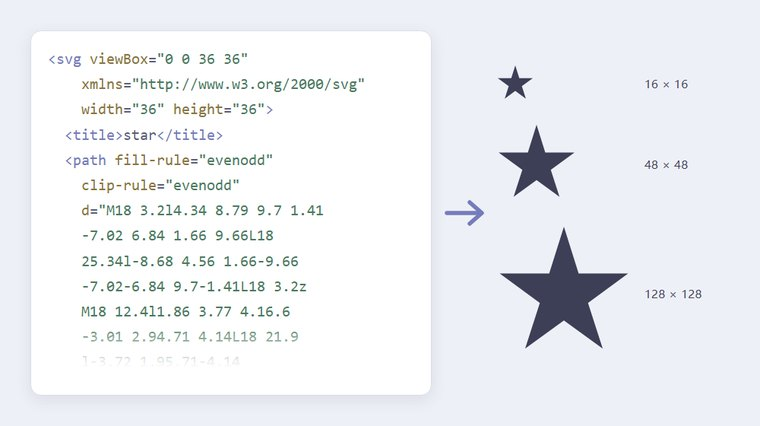
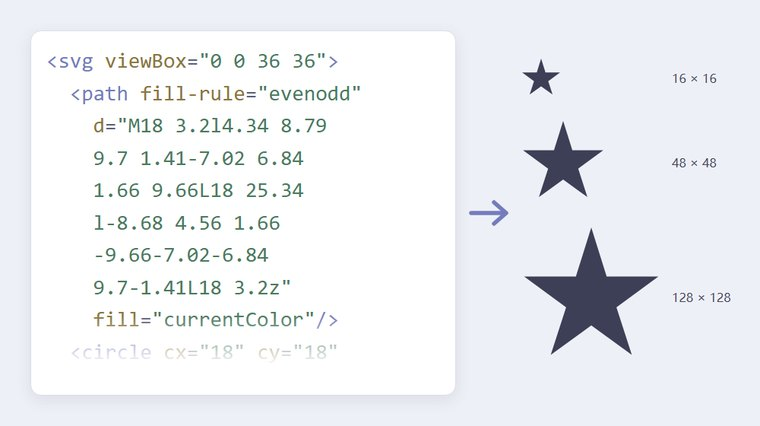
SVG转图标宣传图：按卡片尺寸反推字号，代码改为可读
上一版画布里用 20px，但这张图在首页卡片里只显示成约 330px 宽（缩放 0.33），
落到屏幕只剩 6.6px，代码看不清。

- 画布字号 20px → 28px（屏幕上约 9px），代码框加宽 528 → 560
- 示例代码按每行约 30 字符重排（28px 下每行只装得下这么多），
  星形随之改为 52/110/184
- README 补一条画面约定：要让人认出的字，画布字号 = 目标屏幕字号 ÷ 0.33

diff --git a/docs/宣传图/svg转图标.html b/docs/宣传图/svg转图标.html
@@ -18,22 +18,28 @@ body {
 
 /*---------- 左：SVG 输入框 ----------*/
 .input.box {
-	flex: 0 0 528px;
+	flex: 0 0 560px;
 	background: #fff;
 	border: 1px solid #dcdde8;
 	border-radius: 14px;
 	box-shadow: 0 6px 20px rgba(60, 62, 92, .1);
-	padding: 20px 22px 0;
+	padding: 18px 20px 0;
 	overflow: hidden;
 	position: relative;
 }
 
+/*
+ * 字号 28px 是算出来的，不是随手挑的：
+ * 这张图 1000px 宽，在首页卡片里显示成约 330px，缩放 0.33；
+ * 要让代码在卡片上还有 ~9px 的可读字号，画布里就得约 28px。
+ * 代价是每行只装得下约 30 个字符，所以下面这段代码是按短行重排过的。
+ */
 .input.box .code {
 	font-family: "SFMono-Regular", Consolas, "Liberation Mono", monospace;
-	font-size: 20px;
-	line-height: 1.66;
-	color: #5c5f7a;
+	font-size: 28px;
+	line-height: 1.52;
 	white-space: pre;
+	color: #5c5f7a;
 }
 
 .input.box .code .tag { color: #757cbb; }
@@ -45,9 +51,9 @@ body {
 	content: "";
 	position: absolute;
 	left: 1px; right: 1px; bottom: 1px;
-	height: 96px;
+	height: 104px;
 	border-radius: 0 0 13px 13px;
-	background: linear-gradient(to bottom, rgba(255,255,255,0) 0%, #fff 64%);
+	background: linear-gradient(to bottom, rgba(255,255,255,0) 0%, #fff 66%);
 }
 
 /*---------- 中：箭头 ----------*/
@@ -67,15 +73,14 @@ body {
 	align-content: center;
 	align-items: center;
 	justify-items: start;
-	gap: 30px 18px;
+	gap: 30px 14px;
 	color: #3d3f57;
 }
 
 .sizes .label {
-	font-size: 15px;
-	letter-spacing: .02em;
-	color: #45455d;
+	font-size: 16px;
 	white-space: nowrap;
+	color: #45455d;
 }
 
 .star {
@@ -86,23 +91,17 @@ body {
 </head>
 <body>
 	<div class="input box">
-		<div class="code"><span class="tag">&lt;svg</span> <span class="attr">viewBox</span>=<span class="str">"0 0 36 36"</span>
-    <span class="attr">xmlns</span>=<span class="str">"http://www.w3.org/2000/svg"</span>
-    <span class="attr">width</span>=<span class="str">"36"</span> <span class="attr">height</span>=<span class="str">"36"</span><span class="tag">&gt;</span>
-  <span class="tag">&lt;title&gt;</span>star<span class="tag">&lt;/title&gt;</span>
+		<div class="code"><span class="tag">&lt;svg</span> <span class="attr">viewBox</span>=<span class="str">"0 0 36 36"</span><span class="tag">&gt;</span>
   <span class="tag">&lt;path</span> <span class="attr">fill-rule</span>=<span class="str">"evenodd"</span>
-    <span class="attr">clip-rule</span>=<span class="str">"evenodd"</span>
-    <span class="attr">d</span>=<span class="str">"M18 3.2l4.34 8.79 9.7 1.41</span>
-    <span class="str">-7.02 6.84 1.66 9.66L18</span>
-    <span class="str">25.34l-8.68 4.56 1.66-9.66</span>
-    <span class="str">-7.02-6.84 9.7-1.41L18 3.2z</span>
-    <span class="str">M18 12.4l1.86 3.77 4.16.6</span>
-    <span class="str">-3.01 2.94.71 4.14L18 21.9</span>
-    <span class="str">l-3.72 1.95.71-4.14</span>
-    <span class="str">-3.01-2.94 4.16-.6L18 12.4z"</span>
+    <span class="attr">d</span>=<span class="str">"M18 3.2l4.34 8.79</span>
+    <span class="str">9.7 1.41-7.02 6.84</span>
+    <span class="str">1.66 9.66L18 25.34</span>
+    <span class="str">l-8.68 4.56 1.66</span>
+    <span class="str">-9.66-7.02-6.84</span>
+    <span class="str">9.7-1.41L18 3.2z"</span>
     <span class="attr">fill</span>=<span class="str">"currentColor"</span><span class="tag">/&gt;</span>
   <span class="tag">&lt;circle</span> <span class="attr">cx</span>=<span class="str">"18"</span> <span class="attr">cy</span>=<span class="str">"18"</span>
-    <span class="attr">r</span>=<span class="str">"2.4"</span> <span class="attr">fill</span>=<span class="str">"#ffffff"</span><span class="tag">/&gt;</span>
+    <span class="attr">r</span>=<span class="str">"2.4"</span><span class="tag">/&gt;</span>
 <span class="tag">&lt;/svg&gt;</span></div>
 	</div>
 
@@ -115,11 +114,11 @@ body {
 	</div>
 
 	<div class="sizes">
-		<div class="star" style="width:48px;height:48px"></div>
+		<div class="star" style="width:52px;height:52px"></div>
 		<span class="label">16 × 16</span>
-		<div class="star" style="width:104px;height:104px"></div>
+		<div class="star" style="width:110px;height:110px"></div>
 		<span class="label">48 × 48</span>
-		<div class="star" style="width:176px;height:176px"></div>
+		<div class="star" style="width:184px;height:184px"></div>
 		<span class="label">128 × 128</span>
 	</div>
 </body>

diff --git a/docs/宣传图/README.md b/docs/宣传图/README.md
@@ -8,6 +8,8 @@
 - **画布**：固定 `1000 × 560`（与卡片图区同比例）
 - **配色**：画布底 `#eef0f7`（分类色紫苑 `#757cbb` 的极浅版）、主体 `#3d3f57`、强调 `#757cbb`。分类色与 `resources/home.css` 里的 `[data-cat]` 保持一致
 - **铺满**：每个元素尽量撑开画面，不留大块空白
+- **按卡片尺寸定字号**：图在首页卡片里只显示成约 330px 宽，**缩放比约 0.33**。凡是要让人认出来的文字，画布字号 = 目标屏幕字号 ÷ 0.33 —— 想让代码在卡片上有 9px，画布里就得 28px。反过来，画布里 20px 的字落到卡片上只有 6.6px，等于看不清。
+  这条约束会倒逼内容重排：`svg转图标.html` 的示例代码就是为了配合 28px 字号（每行只装约 30 字符）按短行重新断行过的。
 
 ## 怎么出图
 
